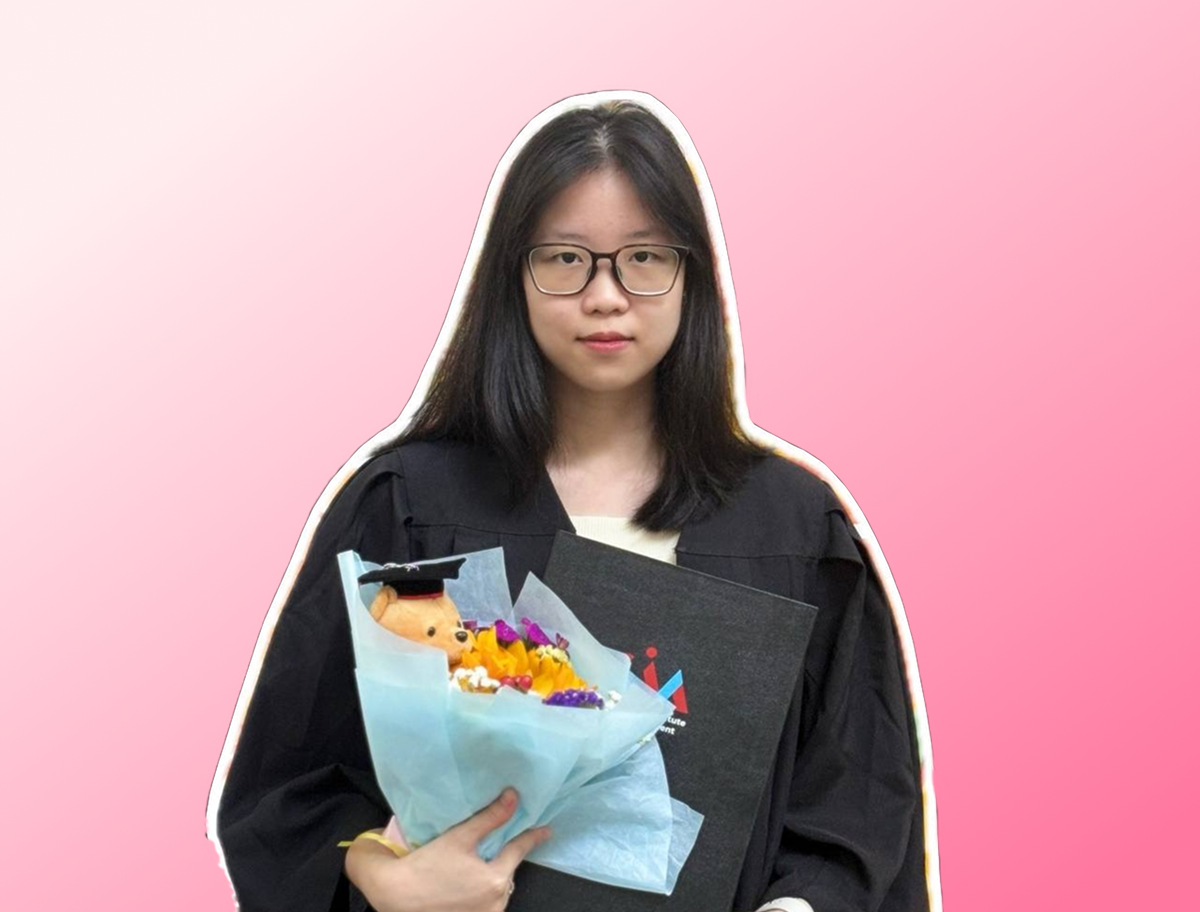
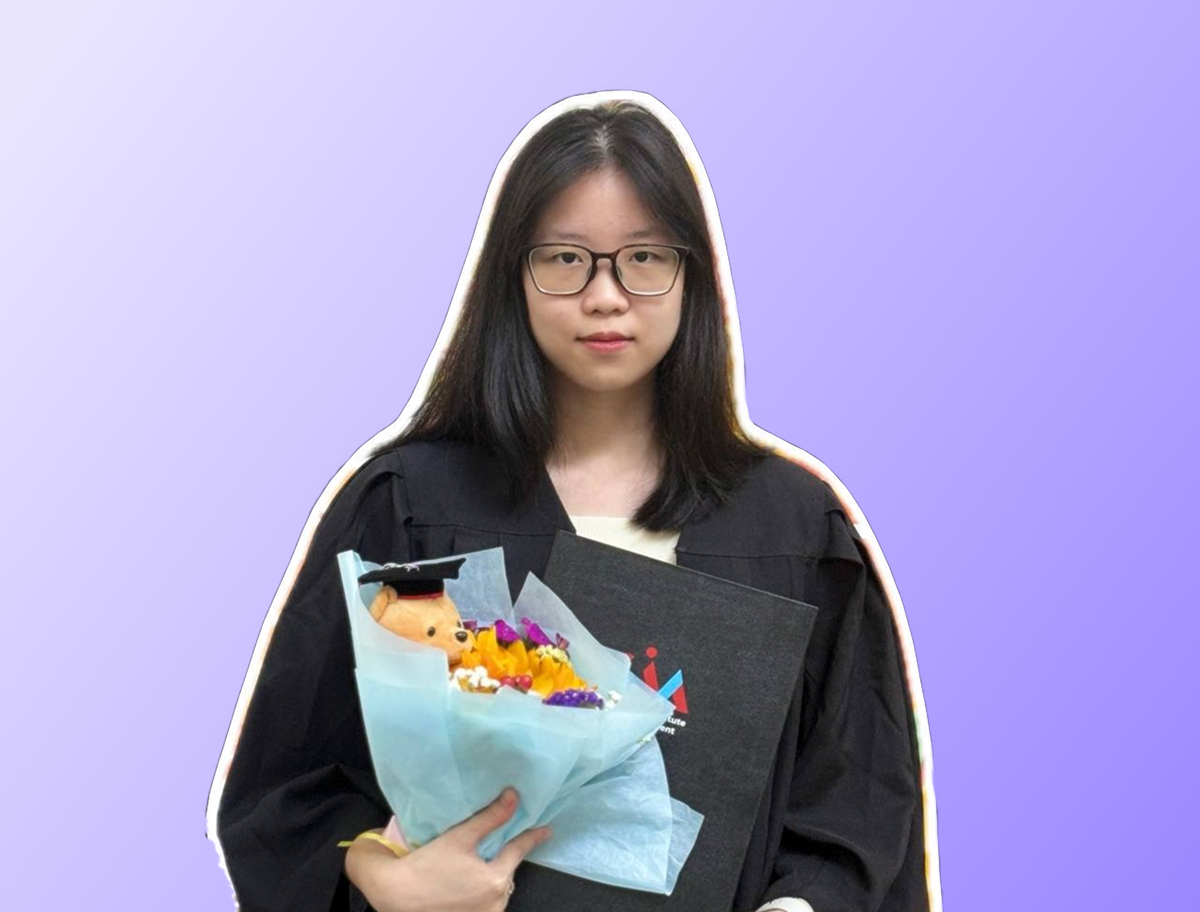
feat: experience sec, projects sec done

diff --git a/src/components/AboutSection.jsx b/src/components/AboutSection.jsx
@@ -3,6 +3,7 @@ import { TextAnimate } from "./magicui/text-animate";
 import DateTimeLocation from "./ui/date-time-location";
 import ButtonHover from "./animation/button-hover";
 import Heading from "./ui/heading";
+import FadeInOut from "./animation/fade-in-out";
 
 const AboutSection = () => {
   return (
@@ -12,23 +13,29 @@ const AboutSection = () => {
         <img src="/public/my_image.png" className="w-xs  object-cover" alt="" />
       </div>
       <div className="flex flex-col w-1/2 mt-30 ms-auto text-3xl leading-snug gap-8">
-        <TextAnimate animation="fadeIn" by="line" as="p">
-          {`Hi, I’m a developer with over 1 year of experience, passionate about
-          crafting clean and user-friendly digital experiences. I specialize in
-          blending technology with creativity to deliver functional, impactful
-          solutions that prioritize simplicity and usability.`}
-        </TextAnimate>
-        <TextAnimate animation="fadeIn" by="line" as="p">
-          {`From coding and collaboration to hackathons and volunteering with
-          youth empowerment organizations, I’m driven by the goal of creating
-          meaningful solutions that resonate with users and make a positive
-          impact on communities.`}
-        </TextAnimate>
-        <TextAnimate animation="fadeIn" by="line" as="p">
-          {`Let’s build something extraordinary together.`}
-        </TextAnimate>
-
-        <ButtonHover />
+        <FadeInOut>
+          {" "}
+          <p>
+            Hi, I’m a developer with over 1 year of experience, passionate about
+            crafting clean and user-friendly digital experiences. I specialize
+            in blending technology with creativity to deliver functional,
+            impactful solutions that prioritize simplicity and usability.
+          </p>
+        </FadeInOut>
+        <FadeInOut>
+          <p>
+            From coding and collaboration to hackathons and volunteering with
+            youth empowerment organizations, I’m driven by the goal of creating
+            meaningful solutions that resonate with users and make a positive
+            impact on communities.
+          </p>
+        </FadeInOut>
+        <FadeInOut>
+          <p>Let’s build something extraordinary together.</p>
+        </FadeInOut>
+        <FadeInOut>
+          <ButtonHover text="Drop me a line" />
+        </FadeInOut>
       </div>
     </section>
   );

diff --git a/src/components/ExperienceSection.jsx b/src/components/ExperienceSection.jsx
@@ -1,0 +1,76 @@
+import React from "react";
+import FadeInOut from "./animation/fade-in-out";
+import ButtonHover from "./animation/button-hover";
+
+const ExperienceSection = () => {
+  const experienceList = [
+    {
+      duration: "Apr 2025 - present",
+      role: "Event Volunteer",
+      detail: "full-time, volunteer",
+      company: "Heartware Youthbank",
+      location: "Charity,(Singapore,SG)",
+    },
+    {
+      duration: "Feb 2025 - present",
+      role: "Design & Development Support",
+      detail: "full-time, volunteer",
+      company: "The Explorers",
+      location: "Design Studio,(Bangkok,TH)",
+    },
+    {
+      duration: "Jan 2025 - Mar 2025",
+      role: "Web Devloper/Desinger",
+      detail: "freelance developer",
+      company: "KHH SECCO",
+      location: "CBO, (Yangon, MM)",
+    },
+    {
+      duration: "Dec 2024 - present",
+      role: "freelance web developer",
+      detail: "",
+      company: "",
+      location: "",
+    },
+  ];
+  return (
+    <section className="w-[90%] mx-auto font-manrope my-30 text-ink">
+      {experienceList.map((el, index) => (
+        <FadeInOut>
+          <div className="grid grid-cols-3  text-normal items-center border-t py-7 border-ink/20">
+            <div className="flex col-span-1 items-center  justify-start space-x-4">
+              <p>{el.duration}</p>
+              <div
+                className={
+                  el.detail === ""
+                    ? "hidden"
+                    : "text-neutral-500 px-4 py-1 rounded-full bg-neutral-200/60"
+                }
+              >
+                {el.detail}
+              </div>
+            </div>
+            <div className="col-span-1 text-neutral-500">{el.role}</div>
+            <div className="col-span-1">
+              {el.company}
+              <span className="text-neutral-500 text-[13px] ms-2">
+                {el.location}
+              </span>
+            </div>
+          </div>
+        </FadeInOut>
+      ))}
+      <FadeInOut>
+        <div className="grid grid-cols-3  text-normal items-center py-7 ">
+          <div className="col-span-1"></div>
+          <div className="col-span-1"></div>
+          <div className="col-span-1">
+            <ButtonHover text="Download Resume" />
+          </div>
+        </div>
+      </FadeInOut>
+    </section>
+  );
+};
+
+export default ExperienceSection;

diff --git a/src/components/animation/horizontal-scroll-carousel.jsx b/src/components/animation/horizontal-scroll-carousel.jsx
@@ -1,0 +1,94 @@
+import { motion, useTransform, useScroll } from "framer-motion";
+import { useRef } from "react";
+
+const HorizontalScroll = () => {
+  return (
+
+      <HorizontalScrollCarousel />
+     
+  );
+};
+
+const HorizontalScrollCarousel = () => {
+  const targetRef = useRef(null);
+  const { scrollYProgress } = useScroll({
+    target: targetRef,
+  });
+
+  const x = useTransform(scrollYProgress, [0, 1], ["1%", "-95%"]);
+
+  return (
+    <section ref={targetRef} className="relative h-[300vh] ">
+      <div className="sticky top-0 flex h-screen items-center overflow-hidden">
+        <motion.div style={{ x }} className="flex gap-4">
+          {cards.map((card) => {
+            return <Card card={card} key={card.id} />;
+          })}
+        </motion.div>
+      </div>
+    </section>
+  );
+};
+
+const Card = ({ card }) => {
+  return (
+    <div
+      key={card.id}
+      className="group relative h-[550px] w-[800px] overflow-hidden bg-neutral-200"
+    >
+      <div
+        style={{
+          backgroundImage: `url(${card.url})`,
+          backgroundSize: "cover",
+          backgroundPosition: "center",
+        }}
+        className="absolute inset-0 z-0 transition-transform duration-300 group-hover:scale-110"
+      ></div>
+      <div className="absolute inset-0 z-10 grid place-content-center">
+        <p className="bg-gradient-to-br from-white/20 to-white/0 p-8 text-6xl font-black uppercase text-white backdrop-blur-lg">
+          {card.title}
+        </p>
+      </div>
+    </div>
+  );
+};
+
+export default HorizontalScroll;
+
+const cards = [
+  {
+    url: "/imgs/abstract/1.jpg",
+    title: "Title 1",
+    id: 1,
+  },
+  {
+    url: "/imgs/abstract/2.jpg",
+    title: "Title 2",
+    id: 2,
+  },
+  {
+    url: "/imgs/abstract/3.jpg",
+    title: "Title 3",
+    id: 3,
+  },
+  {
+    url: "/imgs/abstract/4.jpg",
+    title: "Title 4",
+    id: 4,
+  },
+  {
+    url: "/imgs/abstract/5.jpg",
+    title: "Title 5",
+    id: 5,
+  },
+  {
+    url: "/imgs/abstract/6.jpg",
+    title: "Title 6",
+    id: 6,
+  },
+  {
+    url: "/imgs/abstract/7.jpg",
+    title: "Title 7",
+    id: 7,
+  },
+];

diff --git a/src/components/animation/button-hover.jsx b/src/components/animation/button-hover.jsx
@@ -1,19 +1,18 @@
-import { ArrowDown } from "lucide-react";
 import React from "react";
 
-const ButtonHover = () => {
+const ButtonHover = ({ text }) => {
   return (
     <>
-      <button className="group relative h-12 text-xl font-medium w-fit px-5 rounded-full border-[1.5px] border-rose text-rose">
+      <button className="group relative h-12 text-base font-normal w-fit px-5 rounded-full border-1 border-rose text-rose">
         <span className="relative inline-flex overflow-hidden">
-          <div className="translate-y-0 skew-y-0 transition duration-500 group-hover:-translate-y-[140%] group-hover:skew-y-12">
+          <div className="translate-y-0  transition duration-500 group-hover:-translate-y-[110%] ">
             <div className="flex items-center">
-              <p>Resume</p> <ArrowDown className="ms-2 text-xl " />
+              <p>{text}</p>
             </div>
           </div>
-          <div className="absolute translate-y-[114%] skew-y-12 transition duration-500 group-hover:translate-y-0 group-hover:skew-y-0">
-           <div className="flex items-center">
-              <p>Resume</p> <ArrowDown className="ms-2 text-xl " />
+          <div className="absolute translate-y-[110%]  transition duration-500 group-hover:translate-y-0 ">
+            <div className="flex items-center">
+              <p>{text}</p>
             </div>
           </div>
         </span>

diff --git a/src/pages/MainPage.jsx b/src/pages/MainPage.jsx
@@ -3,6 +3,8 @@ import HeroSection from "../components/HeroSection";
 import AboutSection from "../components/AboutSection";
 import SmoothScroll from "@/components/animation/smooth-scroll";
 import ContributeSection from "@/components/ContributeSection";
+import RecentProjectSection from "@/components/RecentProjectSection";
+import ExperienceSection from "@/components/ExperienceSection";
 
 const MainPage = () => {
   return (
@@ -10,7 +12,9 @@ const MainPage = () => {
       <SmoothScroll>
         <HeroSection />
         <AboutSection />
-        <ContributeSection/> 
+        <ContributeSection />
+        <RecentProjectSection />
+        <ExperienceSection />
       </SmoothScroll>
     </main>
   );

diff --git a/src/components/HeroSection.jsx b/src/components/HeroSection.jsx
@@ -8,7 +8,7 @@ const HeroSection = () => {
   const text = "Chen Myae Kay Khaing";
   const words = ["Frontend", "Backend", "Mobile", "Website"];
   return (
-    <section className="h-screen overflow-x-hidden bg-gradient-to-t from-[#FF6895] via-[#FF8DAD] to-[#FFB3CA] relative">
+    <section className="h-screen overflow-x-hidden bg-gradient-to-t from-[#7E65FF] via-[#9B84FF] to-[#CCBAFF] relative">
       <div className="w-[90%] mx-auto">
         <div className=" absolute bottom-1 ">
           <div className="text-xl text-semibold w-full lg:w-2/3 lg:text-[35px] leading-11 text-white/80 font-manrope ">

diff --git a/src/components/RecentProjectSection.jsx b/src/components/RecentProjectSection.jsx
@@ -1,0 +1,15 @@
+import React from "react";
+import HorizontalScroll from "./animation/horizontal-scroll-carousel";
+import Heading from "./ui/heading";
+
+const RecentProjectSection = () => {
+  return (
+    <section className="w-[90%] mx-auto font-manrope my-30 text-ink">
+      <Heading title="Some of my selected work" subtitle="[Projects]" />
+   
+      <HorizontalScroll/>
+    </section>
+  );
+};
+
+export default RecentProjectSection;

diff --git a/src/App.css b/src/App.css
@@ -4,7 +4,7 @@
 
 @theme {
   --font-manrope: "Manrope", sans-serif;
-  --color-rose: #FF6895;
+  --color-rose: #7E65FF;
   --color-ink: #1E1E1E
 }
 
